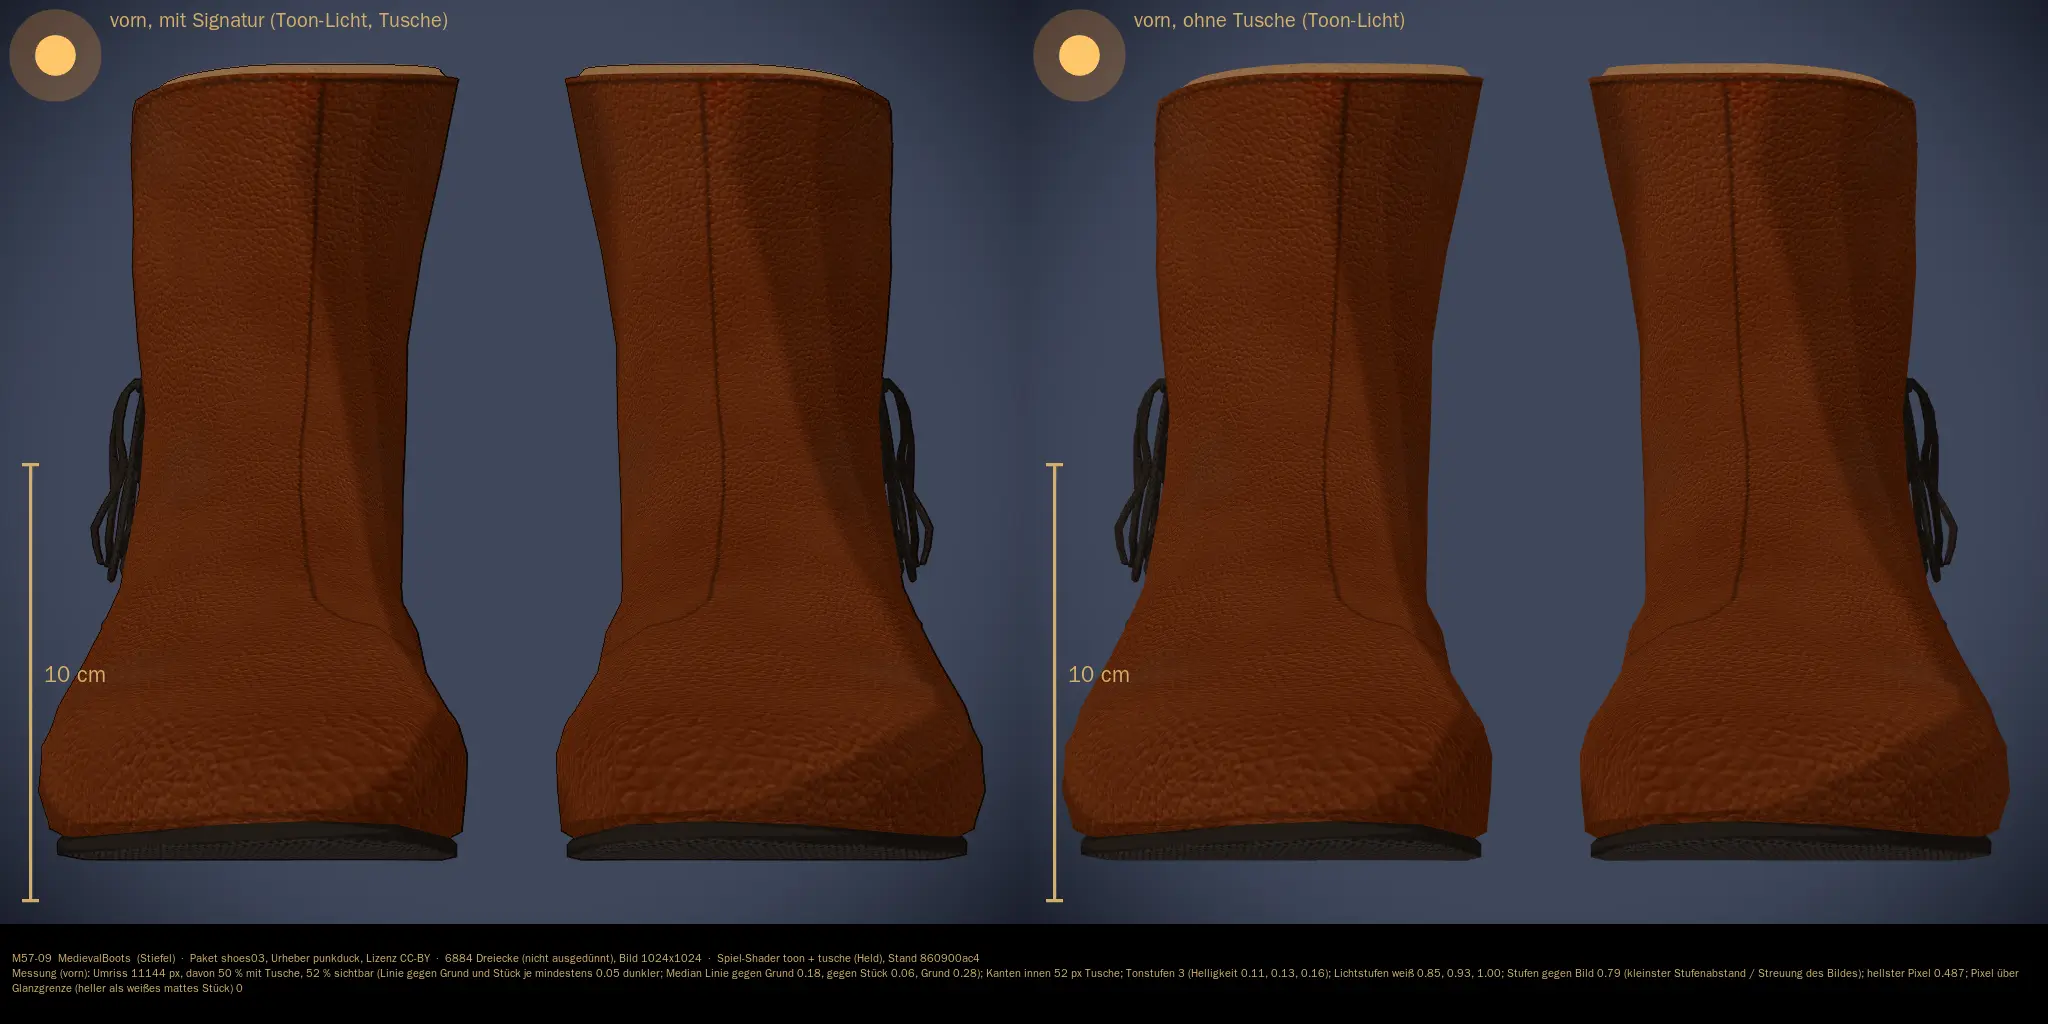
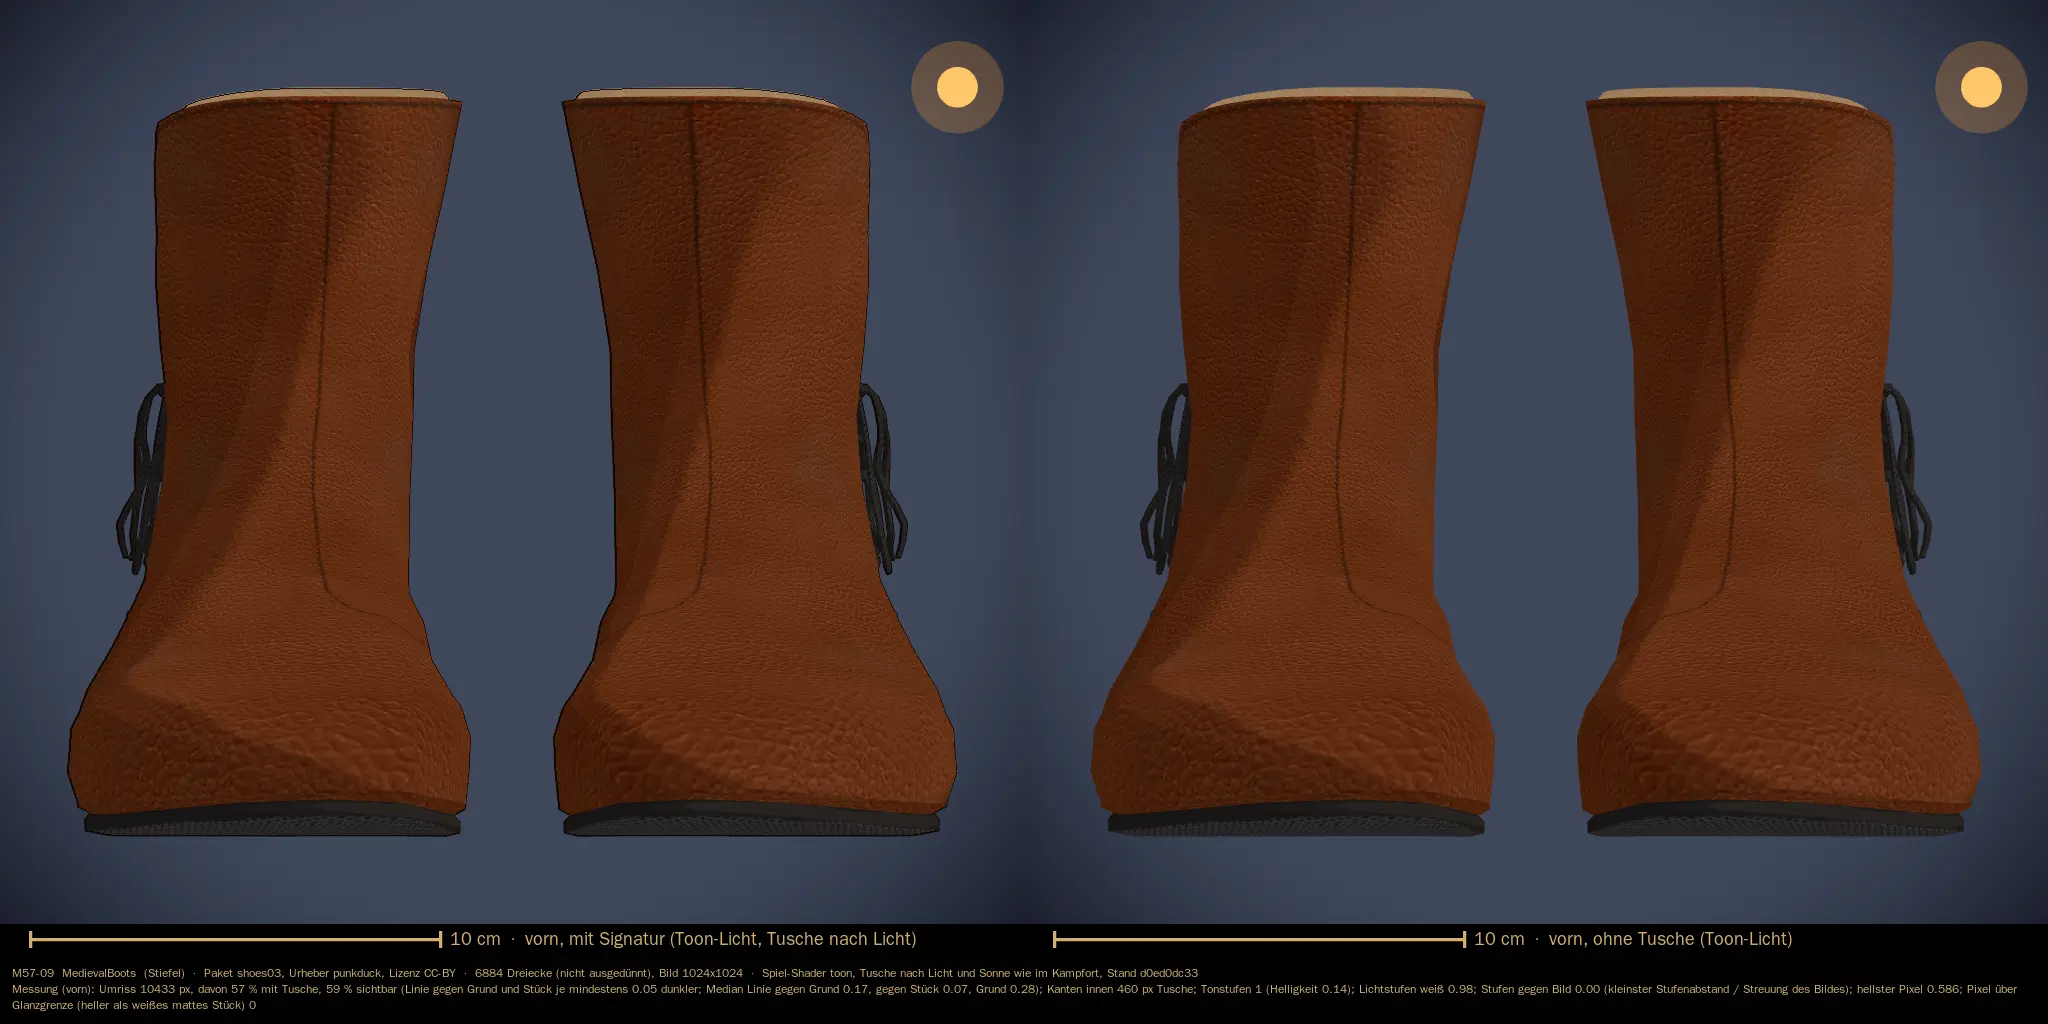
2034 Teil 0: Probe-Lauf 3 an d0ed0dc33 (A2), Ausschnitte Licht gegen Schatten, Rahmen aller Stücke, Übergabe
Claude-Session: https://claude.ai/code/session_01Hmoj78JK5ZK3PgG9J51MzU

Changed region(s): [[0.0, 0.0, 1.0, 0.8438], [0.0, 0.9062, 1.0, 1.0]]

diff --git a/tools/godot/abzug_2034_seiten.py b/tools/godot/abzug_2034_seiten.py
@@ -89,9 +89,10 @@ for nr in NUR:
     bm = Image.open('%s/%s_vorn.png' % (R, nr)).convert('RGB')
     bo = Image.open('%s/%s_vorn_ohne.png' % (R, nr)).convert('RGB')
     can = Image.new('RGB', (2048, 1124), (0, 0, 0))
-    ub = bm.copy(); dr = ImageDraw.Draw(ub)
+    ox = (bm.size[0] - 1024) // 2   # Uebersicht: mittlere 1024 px des 2048 breiten Bildes (Stueck mittig, Zuschnitt <= 1024)
+    ub = bm.crop((ox, 0, ox + 1024, bm.size[1])); dr = ImageDraw.Draw(ub)
     for seite, farbe in (('licht', GOLD), ('schatten', BLAU)):
-        x, y = wo[seite]; dr.rectangle([x - 3, y - 3, x + A + 2, y + A + 2], outline=farbe, width=3)
+        x, y = wo[seite]; dr.rectangle([x - ox - 3, y - 3, x - ox + A + 2, y + A + 2], outline=farbe, width=3)
     can.paste(ub, (0, 0))
     dc = ImageDraw.Draw(can)
     f18, f16 = ImageFont.truetype(F, 18), ImageFont.truetype(F, 16)

diff --git a/docs/entwurf/2034-uebergabe.md b/docs/entwurf/2034-uebergabe.md
@@ -29,3 +29,8 @@ Offen: Probe-Lauf (Robe M36-05, Stiefel M57-09, dazu M29-04) nach Prüfer-Ja; bp
 ## Nachtrag 19:52 (Edda): Probe-Lauf 2 (Sokrates 19:44) an 860900ac4
 
 Lauf: abzug_mh.py (bpy 5.2.3, venv ~/bl neu) NUR=M29-04,M36-05,M57-09, dann `SIGNATUR=1 … abzug_2034.gd` (xvfb, OpenGL 3 nach Vulkan-Fehlschlag wie zuvor), Bilder `probe/M29-04|M36-05|M57-09.webp`, alt gegen neu `probe/M36-05_alt_neu.webp`, `probe/M57-09_alt_neu.webp`, Messung `probe/messung-860900ac4.json`, MARKE `probe/marke-860900ac4.txt`. Nach dem Lauf nur das Zusammensetzen geändert (Schrift: Ansichtszeile kleiner, Rand passt sich dem Messsatz an; Lizenz der Paketseite aus der Liste). Wartet auf Prüfer; Abzug erst nach Ja.
+
+## Nachtrag 20:42 (Edda): Probe-Lauf 3 nach DESIGN-STIL A2 (2034-Ü14) an d0ed0dc33
+
+Lauf `SIGNATUR=1 NUR=M36-05,M57-09,M29-04` an d0ed0dc33 (Lauf 3 von 3, kein weiterer ohne Freigabe). Sonne und Tusche aus `kampf/signatur.gd` (`sonne_wie_kampf`: −45, 55; `tusche_licht` Gruppe: px 0,8, dick 1,5, umriss_dick 1,3), Lampe auf der Sonnenseite. Bilder `probe/<Nr>.webp` (vorn mit | ohne), `probe/<Nr>_abzug.webp` (vorn | Seite wie im Abzug), `probe/<Nr>_licht_schatten.webp` (Ausschnitt 3-fach), Messung `probe/messung-d0ed0dc33.json`, Lauf `probe/marke-d0ed0dc33.txt`. Rahmen aller 194 Netze ohne Bildlauf: `2034-abzug/rahmen.tsv` (`abzug_2034_rahmen.py`, stimmt bei den drei Stücken mit dem Lauf überein).
+Befund: Toon-Stufen 1 statt 3 (weißes Stück 0,98): Kampfort-Sonne ohne Tonwerte des Kampforts. Behebung ohne Lauf im Folgecommit (`Sig.einrichten` statt Einzelteilen), wartet auf Laufanforderung beim Prüfer.
